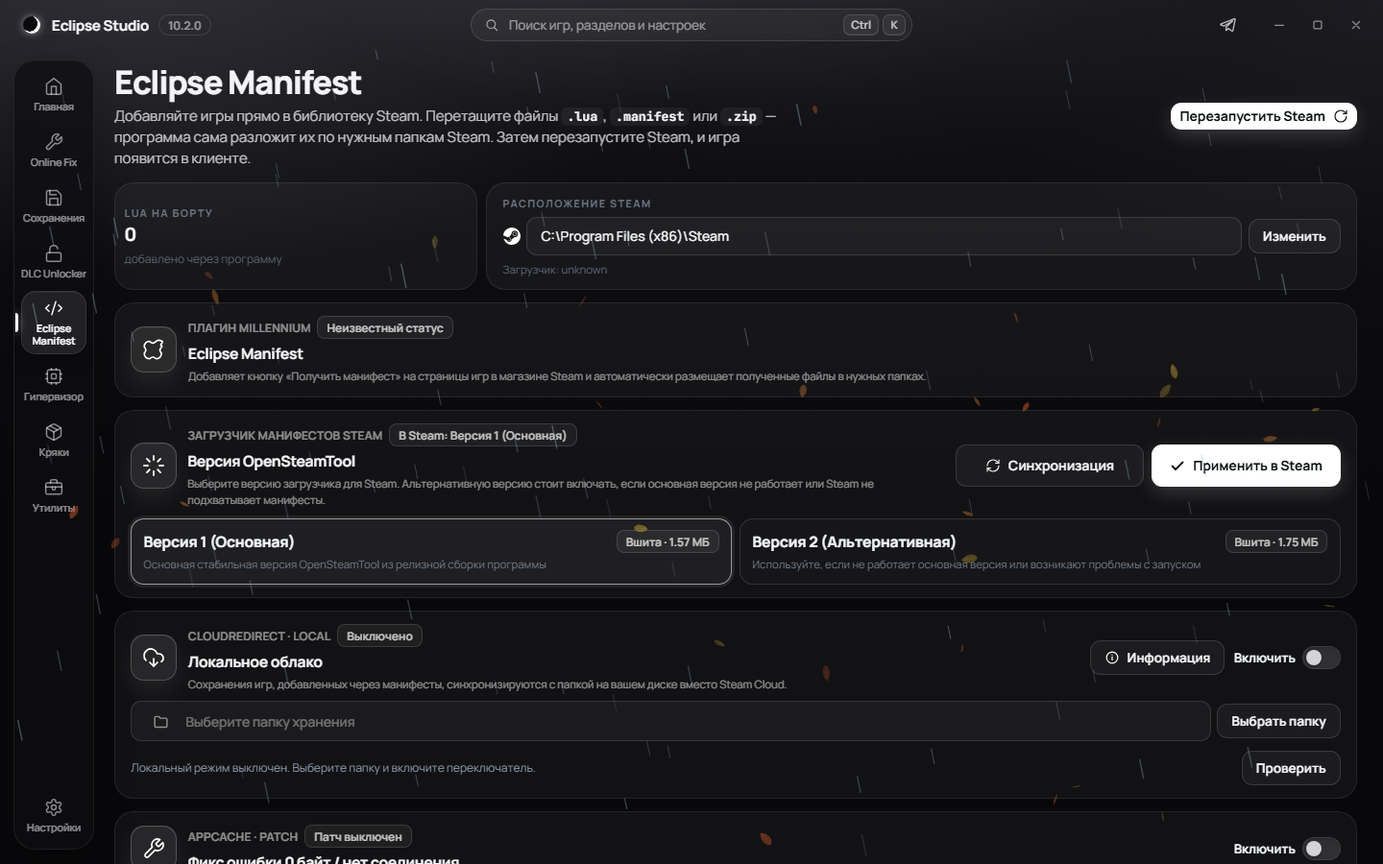
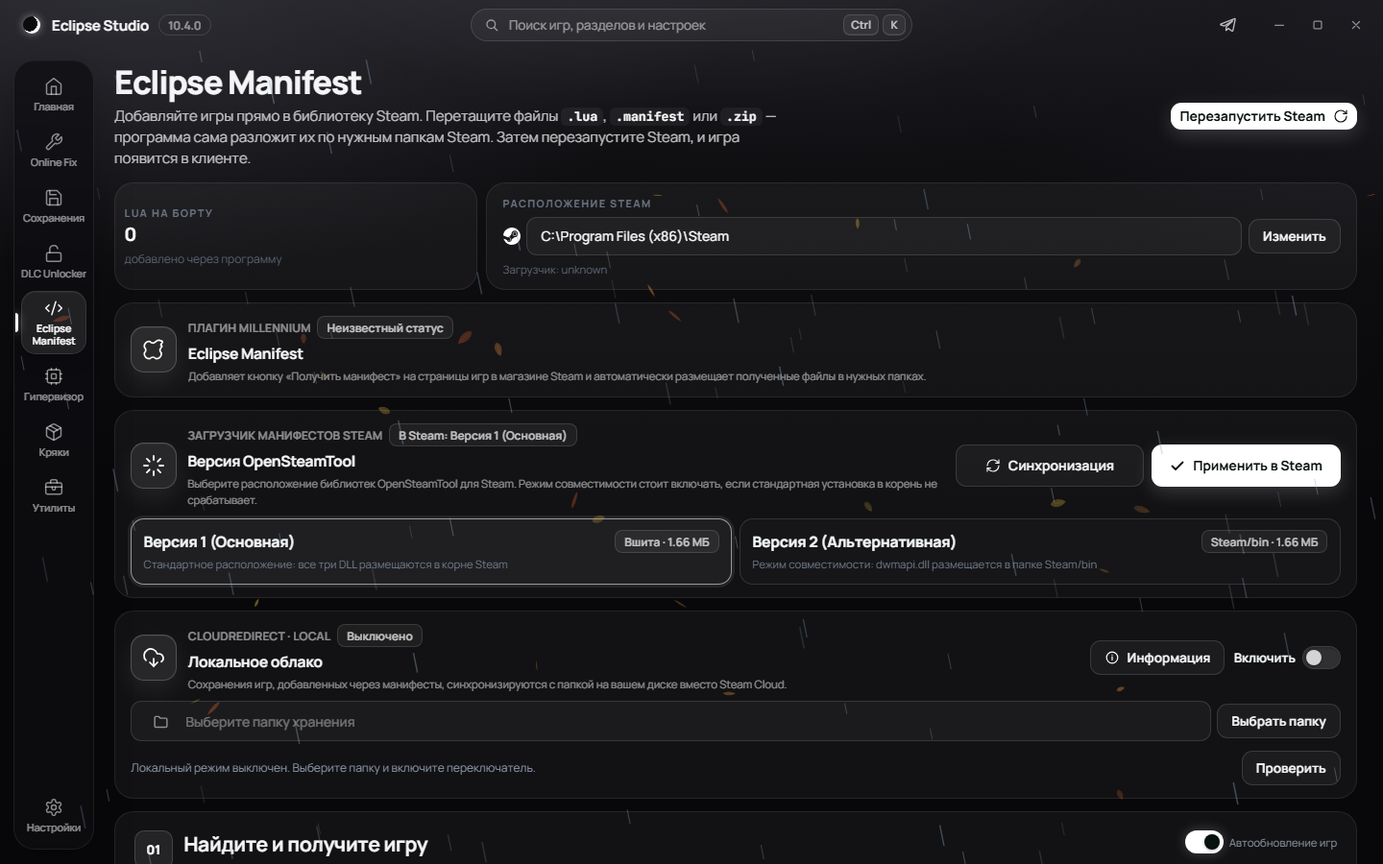
docs: update website, CGS v5.6.8 comparison and screenshots for v10.4.0

diff --git a/docs/app.js b/docs/app.js
@@ -898,12 +898,12 @@
       'hero.meta2': 'Процессор с AVX2',
       'hero.meta3': 'Portable — без установки',
       'facts.f1.k': '01 / Стек',
-      'facts.f1.p': 'Ядро на Rust: мгновенный запуск.',
+      'facts.f1.p': 'Ядро на Rust: многопоточная работа и мгновенный запуск.',
       'facts.f2.k': '02 / Приватность',
       'facts.f2.p': 'Телеметрии. Приложение работает офлайн и ничего не отправляет.',
       'facts.f3.k': '03 / Оформление',
       'facts.f3.unit': 'тем',
-      'facts.f3.p': 'Тёмные и светлые палитры, 12 акцентов и масштаб текста до 140%.',
+      'facts.f3.p': 'Тёмные и светлые палитры, 12 акцентов, градиент фона, сезоны и зум до 140%.',
       'facts.f4.k': '04 / Модули',
       'facts.f4.p': 'Разделов: от фиксов и сохранений до поиска античитов и настройки VBS.',
       'modules.kicker': 'Модули',
@@ -918,26 +918,26 @@
       'compare.aria': 'Сравнение: оригинал и Eclipse Studio',
       'compare.more': 'Показать все отличия (+{n})',
       'compare.less': 'Свернуть отличия',
-      'compare.diffOrig1': '<strong>Ручная установка:</strong> скачивание архива и распаковка ZIP/RAR с выбором нужной папки внутри и подтверждением шагов',
-      'compare.diffOrig2': '<strong>Внешний helper-апдейтер:</strong> бесшовный перезапуск через извлекаемый CgsUpdater.exe — без пробы здоровья новой версии и автоотката',
-      'compare.diffOrig3': '<strong>11 тем и 4 акцента:</strong> масштаб до 125%, фиксированная ширина сайдбара и статичное расположение панелей',
-      'compare.diffOrig4': '<strong>Смешанная графика:</strong> SVG в меню в сочетании с системными эмодзи и растровыми деталями интерфейса',
-      'compare.diffOrig5': '<strong>Классический запуск:</strong> окно появляется сразу, а инициализация компонентов идёт без визуального статуса',
-      'compare.diffOrig6': '<strong>Системные элементы:</strong> браузерные выпадающие списки select и фиксированная звуковая схема',
-      'compare.diffOrig7': '<strong>Открытое хранилище:</strong> настройки и секреты лежат в localStorage профиля WebView в незашифрованном виде',
-      'compare.diffOrig8': '<strong>Облако одним переключателем:</strong> перенаправление сохранений включается вручную, откат прежней конфигурации — тоже',
-      'compare.diffOrig9': '<strong>Раздельные твики VBS:</strong> команды Fix WMI, DISM и SFC по отдельности — без живого лога и автозащиты BitLocker',
-      'compare.diffOrig10': '<strong>Закрытый лаунчер:</strong> Crocodile-HV поставляется бинарником без исходного кода',
+      'compare.diffOrig1': '<strong>Пошаговая установка:</strong> скачивание архива с выбором папки внутри и подтверждением установки в диалоге',
+      'compare.diffOrig2': '<strong>Отдельный CgsUpdater.exe и GitHub API:</strong> обновление через извлекаемый бинарник и API-запросы с лимитом 60/час',
+      'compare.diffOrig3': '<strong>11 тем и 4 акцента:</strong> зум до 125%, фиксированный сайдбар, без конструктора градиента и только новогодний декор',
+      'compare.diffOrig4': '<strong>Смешанная графика:</strong> SVG в сочетании с системными эмодзи, единая лента настроек и без быстрого поиска',
+      'compare.diffOrig5': '<strong>Классический запуск:</strong> окно открывается без статуса инициализации компонентов; последовательные сетевые запросы',
+      'compare.diffOrig6': '<strong>Системные элементы:</strong> стандартные выпадающие списки select и без звукового движка интерфейса',
+      'compare.diffOrig7': '<strong>Открытое хранилище:</strong> настройки и API-ключи хранятся в localStorage профиля WebView без шифрования',
+      'compare.diffOrig8': '<strong>Фиксированный комплект CrocLua:</strong> один набор DLL, всплывающий баннер патча appcache без пометки о Мастерской',
+      'compare.diffOrig9': '<strong>VBS 2.0:</strong> раздельный ремонт WMI, DISM и SFC с итогом в конце и проверкой Secure Boot через PowerShell',
+      'compare.diffOrig10': '<strong>Закрытый лаунчер:</strong> Crocodile-HV v2.0.0 поставляется бинарником без открытого исходного кода',
       'compare.diffNew1': '<strong>Автоустановка в 1 клик:</strong> авторазбор структуры ZIP/RAR и вложенных корней, пароли, бэкап .backup_orig и автоудаление архива',
-      'compare.diffNew2': '<strong>Апдейтер без внешних файлов:</strong> проверка SHA-256 и PE, проба здоровья с автооткатом, отложка на 5 запусков и очистка старых версий',
-      'compare.diffNew3': '<strong>14 тем и 12 неоновых акцентов:</strong> компактный режим, зум 85–140%, перетаскиваемый сайдбар 180–380 px и док панелей в 4 стороны',
-      'compare.diffNew4': '<strong>Векторный SVG-сет Lucide:</strong> единый набор чётких иконок во всех разделах и микроанимации элементов 60 FPS',
-      'compare.diffNew5': '<strong>Аппаратная заставка:</strong> Canvas-анимация с логотипом, пошаговый статус загрузки и мгновенный пропуск по клику',
-      'compare.diffNew6': '<strong>Кастомные меню и звуки:</strong> темы-адаптивные выпадающие меню и конструктор собственных звуковых профилей',
-      'compare.diffNew7': '<strong>DPAPI-хранилище:</strong> состояние и секреты шифруются на уровне Windows, с миграцией из legacy-хранилища',
-      'compare.diffNew8': '<strong>Полный менеджер облака:</strong> выбор папки и режима, до 10 бэкапов конфигурации, миграция данных и обновление компонента в 1 клик',
-      'compare.diffNew9': '<strong>Живой ремонт с гарантиями:</strong> стриминг лога WMI, SFC и DISM, автоприостановка BitLocker и симметричный откат SecConfig.efi',
-      'compare.diffNew10': '<strong>Открытый Eclipse-HV v2.0.0:</strong> DSE-движок на подписанном RTCore64, верифицируемый UEFI-откат и нативный WMI-пробинг — исходники в репозитории',
+      'compare.diffNew2': '<strong>Апдейтер без лишних файлов:</strong> встроенный помощник с умным переименованием, чтение releases.atom без лимитов API, проверка SHA-256/PE и автооткат',
+      'compare.diffNew3': '<strong>До 14 тем и 12 акцентов:</strong> конструктор градиента, 4 сезона года, зум 85–140%, ресайз сайдбара и док панелей в 4 стороны',
+      'compare.diffNew4': '<strong>Векторный сет Lucide и Ctrl+K:</strong> единые SVG-иконки 60 FPS, 5 вкладок настроек и мгновенный поиск по модулям, играм и опциям',
+      'compare.diffNew5': '<strong>Canvas-заставка и многопоточность:</strong> анимированный прогресс запуска с пропуском по клику, пул потоков http_pool и кэш appinfo.vdf',
+      'compare.diffNew6': '<strong>Кастомные меню и звуковой движок:</strong> адаптивные списки, конструктор аудиопрофилей со своими MP3/WAV/OGG/FLAC и 8 шрифтов',
+      'compare.diffNew7': '<strong>DPAPI-шифрование:</strong> состояние, API-ключи и журналы отката шифруются на уровне Windows с проверкой при запуске',
+      'compare.diffNew8': '<strong>Единый OpenSteamTool (rev 3):</strong> корень Steam или bin/dwmapi.dll, безопасное закрытие Steam, сторонние Lua и тихий патч appcache с заметкой о Workshop',
+      'compare.diffNew9': '<strong>VBS 2.0.1 и «Управление защитами»:</strong> живой стриминг лога WMI/SFC/DISM, нативный WMI-пробинг без PowerShell, BitLocker Safe Guard и откат SecConfig.efi',
+      'compare.diffNew10': '<strong>Открытый Eclipse-HV v2.0.0:</strong> Rust-исходники в репозитории, DSE-движок на RTCore64, свой тест-сертификат, --status и ярлыки Shell COM (.lnk)',
       'dl.kicker': 'Загрузка',
       'dl.title1': 'Один файл.',
       'dl.title2': 'Portable.',
@@ -1073,12 +1073,12 @@
       'hero.meta2': 'AVX2-capable CPU',
       'hero.meta3': 'Portable — no install',
       'facts.f1.k': '01 / Stack',
-      'facts.f1.p': 'Rust core engine: lightning-fast launch.',
+      'facts.f1.p': 'Rust core: multithreaded engine and instant launch.',
       'facts.f2.k': '02 / Privacy',
       'facts.f2.p': 'Telemetry. Fully offline, no data sent anywhere.',
       'facts.f3.k': '03 / Appearance',
       'facts.f3.unit': 'themes',
-      'facts.f3.p': 'Dark & light palettes, 12 accents and text scaling up to 140%.',
+      'facts.f3.p': 'Dark & light palettes, 12 accents, background gradient, seasons and zoom up to 140%.',
       'facts.f4.k': '04 / Modules',
       'facts.f4.p': 'Sections: from online fixes & saves to anticheat audits & VBS.',
       'modules.kicker': 'Modules',
@@ -1093,26 +1093,26 @@
       'compare.aria': 'Comparison: original vs Eclipse Studio',
       'compare.more': 'Show all differences (+{n})',
       'compare.less': 'Collapse differences',
-      'compare.diffOrig1': '<strong>Manual installation:</strong> archive download and ZIP/RAR extraction with manual folder selection inside the archive and step confirmation',
-      'compare.diffOrig2': '<strong>External updater helper:</strong> seamless restart via an extracted CgsUpdater.exe — no health probe of the new build and no automatic rollback',
-      'compare.diffOrig3': '<strong>11 themes and 4 accents:</strong> scaling up to 125%, fixed sidebar width and static panel placement',
-      'compare.diffOrig4': '<strong>Mixed graphics:</strong> menu SVG combined with system emojis and raster interface details',
-      'compare.diffOrig5': '<strong>Classic startup:</strong> the window appears instantly while component initialization shows no visual status',
-      'compare.diffOrig6': '<strong>System elements:</strong> default browser select dropdowns and a fixed sound scheme',
-      'compare.diffOrig7': '<strong>Open storage:</strong> settings and secrets sit unencrypted in the WebView profile localStorage',
-      'compare.diffOrig8': '<strong>One-switch cloud:</strong> save redirection is enabled manually and the previous configuration is restored the same way',
-      'compare.diffOrig9': '<strong>Separate VBS tweaks:</strong> Fix WMI, DISM and SFC commands run individually — no live log and no BitLocker protection',
-      'compare.diffOrig10': '<strong>Closed launcher:</strong> Crocodile-HV ships as a binary without source code',
+      'compare.diffOrig1': '<strong>Staged installation:</strong> archive download with manual folder selection inside and dialog confirmation',
+      'compare.diffOrig2': '<strong>External CgsUpdater.exe & GitHub API:</strong> updates via an extracted helper binary and rate-limited API requests (60/hr)',
+      'compare.diffOrig3': '<strong>11 themes and 4 accents:</strong> scaling up to 125%, fixed sidebar width, no gradient editor and New Year decorations only',
+      'compare.diffOrig4': '<strong>Mixed graphics:</strong> SVG combined with system emojis, a single scrolling settings list and no quick search',
+      'compare.diffOrig5': '<strong>Classic startup:</strong> window opens without component-init status; sequential network requests',
+      'compare.diffOrig6': '<strong>System controls:</strong> default browser select dropdowns and no UI sound engine',
+      'compare.diffOrig7': '<strong>Open storage:</strong> settings and API keys sit unencrypted in WebView profile localStorage',
+      'compare.diffOrig8': '<strong>Fixed CrocLua bundle:</strong> single DLL layout and a popup appcache patch prompt without a Workshop note',
+      'compare.diffOrig9': '<strong>VBS 2.0:</strong> separate WMI, DISM and SFC fixes with output at completion and PowerShell Secure Boot checks',
+      'compare.diffOrig10': '<strong>Closed launcher:</strong> Crocodile-HV v2.0.0 ships as a binary without public source code',
       'compare.diffNew1': '<strong>1-Click auto-install:</strong> smart ZIP/RAR layout and nested-root detection, password support, .backup_orig backup and archive auto-cleanup',
-      'compare.diffNew2': '<strong>Updater without extra files:</strong> SHA-256 and PE verification, health probe with automatic rollback, 5-launch snooze and old-version cleanup',
-      'compare.diffNew3': '<strong>14 themes and 12 neon accents:</strong> compact mode, 85–140% zoom, draggable 180–380 px sidebar and 4-way panel docking',
-      'compare.diffNew4': '<strong>Vector Lucide SVG set:</strong> one sharp icon family across every view with 60 FPS micro-animations',
-      'compare.diffNew5': '<strong>Hardware Canvas splash:</strong> animated logo, step-by-step startup status and instant click-to-skip',
-      'compare.diffNew6': '<strong>Custom menus and audio:</strong> theme-adaptive dropdowns and a designer for your own sound profiles',
-      'compare.diffNew7': '<strong>DPAPI-protected storage:</strong> state and secrets are encrypted at the Windows level, with legacy migration',
-      'compare.diffNew8': '<strong>Full cloud manager:</strong> folder and mode selection, up to 10 configuration backups, data migration and 1-click component updates',
-      'compare.diffNew9': '<strong>Live repair with guarantees:</strong> real-time WMI, SFC and DISM log streaming, automatic BitLocker suspension and symmetric SecConfig.efi rollback',
-      'compare.diffNew10': '<strong>Open-source Eclipse-HV v2.0.0:</strong> DSE engine on the signed RTCore64 driver, verifiable UEFI rollback and native WMI probing — sources in the repository',
+      'compare.diffNew2': '<strong>Helper-free updater:</strong> built-in updater with smart rename, rate-limit-free releases.atom checks, SHA-256/PE checks and auto-rollback',
+      'compare.diffNew3': '<strong>Up to 14 themes & 12 accents:</strong> gradient designer, 4 seasonal effects, 85–140% zoom, resizable sidebar and 4-way panel docking',
+      'compare.diffNew4': '<strong>Lucide SVG set & Ctrl+K:</strong> unified 60 FPS vector icons, 5-tab Settings and instant search across modules, games and options',
+      'compare.diffNew5': '<strong>Canvas splash & multithreading:</strong> animated startup progress with click-to-skip, http_pool threading and cached appinfo.vdf',
+      'compare.diffNew6': '<strong>Custom menus & audio engine:</strong> theme-adaptive dropdowns, sound profile designer with custom MP3/WAV/OGG/FLAC and 8 UI fonts',
+      'compare.diffNew7': '<strong>DPAPI-protected storage:</strong> state, API keys and rollback logs are encrypted at the Windows level with startup integrity checks',
+      'compare.diffNew8': '<strong>Unified OpenSteamTool (rev 3):</strong> Steam root or bin/dwmapi.dll mode, safe Steam shutdown, 3rd-party Lua toggle and unobtrusive appcache fix with Workshop note',
+      'compare.diffNew9': '<strong>VBS 2.0.1 & Protection Controls:</strong> live WMI/SFC/DISM log streaming, native WMI probing without PowerShell, BitLocker Safe Guard and SecConfig.efi rollback',
+      'compare.diffNew10': '<strong>Open-source Eclipse-HV v2.0.0:</strong> full Rust source in repo, RTCore64 DSE engine, test code-signing cert, --status JSON report and Shell COM (.lnk) shortcuts',
       'dl.kicker': 'Download',
       'dl.title1': 'Single file.',
       'dl.title2': 'Portable.',
@@ -1174,13 +1174,13 @@
       { title: 'Online Fix', fullTitle: 'Universal Online Fix', p: 'Сетевой кооператив и лобби Spacewar.', desc: 'Анализ исполняемых файлов, эмуляторы Steam, лобби Spacewar и фиксы Epic Online Services.' },
       { title: 'Сохранения', fullTitle: 'Менеджер сохранений', p: 'Поиск, бэкап и восстановление прогресса.', desc: 'Поиск прогресса по 15+ путям Windows, архивация в ZIP/RAR и побайтовое восстановление.' },
       { title: 'DLC Unlocker', fullTitle: 'DLC Unlocker', p: 'Выборочно — через SmokeAPI и CreamAPI.', desc: 'Выборочная разблокировка дополнений Steam через SmokeAPI и CreamAPI.' },
-      { title: 'Eclipse Manifest', fullTitle: 'Eclipse Manifest и манифесты', p: 'Манифесты Steam, плагин Millennium и OpenSteamTool v1/v2.', desc: 'Добавление игр в библиотеку Steam через Ryuu и HubCap, плагин Millennium v0.5.2, две версии OpenSteamTool и синхронизация.' },
-      { title: 'Гипервизор', fullTitle: 'Гипервизор: Eclipse-HV', p: 'Автономный лаунчер Eclipse-HV v2.0.0 с автопоиском, журналом и обходом DSE.', desc: 'Запуск игр без BAT-скриптов с поддержкой AVX-512, Zen 4, Intel 12+ и Secure Boot.' },
-      { title: 'Античиты', fullTitle: 'Гипервизор: античиты', p: 'Поиск и удаление античитов.', desc: 'Аудит служб, драйверов и остаточных файлов 12 популярных античитов.' },
-      { title: 'VBS & HVCI', fullTitle: 'Гипервизор: VBS и HVCI', p: 'Настройка гипервизора.', desc: 'Управление Virtualization-based Security, изоляцией ядра, DSE и тестовым режимом.' },
-      { title: 'Crack Vault', fullTitle: 'Crack Vault', p: 'Каталог с кряками игр от DenuvOwO\\ARTIFACT.', desc: 'Каталог актуальных релизов с паролями и 6-поточным загрузчиком.' },
+      { title: 'Eclipse Manifest', fullTitle: 'Eclipse Manifest и манифесты', p: 'Манифесты Steam, плагин Millennium v5.5.0 и единый OpenSteamTool.', desc: 'Добавление игр через Ryuu и HubCap, плагин Millennium v5.5.0, единый загрузчик OpenSteamTool (rev 3) с режимом совместимости, локальное облако CloudRedirect и резервный фикс appcache.' },
+      { title: 'Гипервизор', fullTitle: 'Гипервизор: Eclipse-HV', p: 'Автономный лаунчер Eclipse-HV v2.0.0 с обходом DSE и ярлыками .lnk.', desc: 'Лаунчер Eclipse-HV v2.0.0: DSE-движок на подписанном RTCore64 в памяти, запуск без BAT-скриптов с Secure Boot, поддержка AVX-512 / Zen 4 и нативные ярлыки игр.' },
+      { title: 'Античиты', fullTitle: 'Гипервизор: античиты', p: 'Поиск и удаление античитов.', desc: 'Аудит служб, драйверов и остаточных файлов 12 популярных античитов с обязательным бэкапом.' },
+      { title: 'VBS 2.0.1', fullTitle: 'Гипервизор: VBS 2.0.1 и защиты', p: 'VBS 2.0.1, управление защитами и ремонт Windows.', desc: 'Управление VBS 2.0.1, HVCI, DSE и масками процессора, автозащита BitLocker, UEFI SecConfig.efi и живой ремонт WMI / SFC / DISM.' },
+      { title: 'Crack Vault', fullTitle: 'Crack Vault', p: 'Каталог с кряками игр от DenuvOwO\\ARTIFACT.', desc: 'Каталог актуальных релизов с паролями, 6-поточным загрузчиком и автоустановкой в 1 клик.' },
       { title: 'Утилиты', fullTitle: 'Утилиты', p: 'CirnoDownloader, Sigma, Zapret2.', desc: 'Хаб внешних инструментов: CirnoDownloader, Sigma, Zapret2 и инструкции по настройке.' },
-      { title: 'Настройки', fullTitle: 'Настройки', p: 'Темы, акценты, главная, масштаб и язык.', desc: '14 тем, 12 акцентов (в светлой теме — с читаемым контрастом), настройка главной и раздела при запуске, масштаб шрифта и мультиязычность.' },
+      { title: 'Настройки', fullTitle: 'Настройки', p: 'Темы, акценты, градиент, сезоны, звук и поиск Ctrl+K.', desc: 'Тёмные и светлые темы, 12 акцентов (с читаемым контрастом), 2-точечный градиент, 4 сезона года, звуковые профили, док панелей в 4 стороны и масштаб до 140%.' },
       { title: 'Telegram Hub', fullTitle: 'Telegram Hub', p: 'Каналы проекта и поддержка.', desc: 'Все официальные сообщества, канал обновлений и поддержка в одном окне.' },
     ],
     en: [
@@ -1188,13 +1188,13 @@
       { title: 'Online Fix', fullTitle: 'Universal Online Fix', p: 'Online co-op and Spacewar lobbies.', desc: 'Executable analysis, Steam emulators, Spacewar lobbies, and Epic Online Services fixes.' },
       { title: 'Save Manager', fullTitle: 'Save Game Manager', p: 'Discovery, backup, and restore of progress.', desc: 'Progress discovery across 15+ Windows paths, ZIP/RAR archiving, and byte-accurate recovery.' },
       { title: 'DLC Unlocker', fullTitle: 'DLC Unlocker', p: 'Selective unlock via SmokeAPI & CreamAPI.', desc: 'Selective Steam DLC unlocking powered by SmokeAPI and CreamAPI.' },
-      { title: 'Eclipse Manifest', fullTitle: 'Eclipse Manifest & Manifests', p: 'Steam manifests, Millennium plugin and OpenSteamTool v1/v2.', desc: 'Add games to Steam library via Ryuu and HubCap, Millennium v0.5.2 support, dual OpenSteamTool loaders, and cloud sync.' },
-      { title: 'Hypervisor', fullTitle: 'Hypervisor: Eclipse-HV', p: 'Standalone Eclipse-HV v2.0.0 launcher with auto-discovery, logging & DSE bypass.', desc: 'Zero-BAT isolated execution with AVX-512, Zen 4, Intel 12+ support & Secure Boot.' },
-      { title: 'Anticheats', fullTitle: 'Hypervisor: Anticheats', p: 'Scan and remove anticheat services.', desc: 'Audit services, drivers, and residual files from 12 popular anticheat systems.' },
-      { title: 'VBS & HVCI', fullTitle: 'Hypervisor: VBS & HVCI', p: 'Hypervisor & security configuration.', desc: 'Manage Virtualization-based Security, core isolation, DSE, and test mode.' },
-      { title: 'Crack Vault', fullTitle: 'Crack Vault', p: 'Game cracks by DenuvOwO\\ARTIFACT.', desc: 'Catalog of current releases with passwords and multi-threaded downloader.' },
+      { title: 'Eclipse Manifest', fullTitle: 'Eclipse Manifest & Manifests', p: 'Steam manifests, Millennium v5.5.0 plugin and unified OpenSteamTool.', desc: 'Add games via Ryuu and HubCap, Millennium v5.5.0 plugin, unified OpenSteamTool (rev 3) with compatibility mode, CloudRedirect local cloud and fallback appcache fix.' },
+      { title: 'Hypervisor', fullTitle: 'Hypervisor: Eclipse-HV', p: 'Standalone Eclipse-HV v2.0.0 launcher with DSE bypass & .lnk shortcuts.', desc: 'Eclipse-HV v2.0.0 launcher: in-memory DSE engine on signed RTCore64, zero-BAT launch with Secure Boot, AVX-512 / Zen 4 support and native desktop shortcuts.' },
+      { title: 'Anticheats', fullTitle: 'Hypervisor: Anticheats', p: 'Scan and remove anticheat services.', desc: 'Audit services, drivers, and residual files from 12 popular anticheat systems with backups.' },
+      { title: 'VBS 2.0.1', fullTitle: 'Hypervisor: VBS 2.0.1 & Protections', p: 'VBS 2.0.1, protection controls and Windows repair.', desc: 'Manage VBS 2.0.1, HVCI, DSE and CPU masks, BitLocker Safe Guard, UEFI SecConfig.efi and live WMI / SFC / DISM repair.' },
+      { title: 'Crack Vault', fullTitle: 'Crack Vault', p: 'Game cracks by DenuvOwO\\ARTIFACT.', desc: 'Catalog of current releases with passwords, 6-part downloader and 1-click auto-install.' },
       { title: 'Utilities', fullTitle: 'Utilities', p: 'CirnoDownloader, Sigma, Zapret2.', desc: 'External tool hub: CirnoDownloader, Sigma, Zapret2 and setup guides.' },
-      { title: 'Settings', fullTitle: 'Settings', p: 'Themes, accents, home, zoom, and language.', desc: '14 themes, 12 accents (readable in the light theme), home page and startup view settings, typography scaling, and multilingual support.' },
+      { title: 'Settings', fullTitle: 'Settings', p: 'Themes, accents, gradient, seasons, audio & Ctrl+K search.', desc: 'Dark & light themes, 12 accents (contrast-adapted), 2-point gradient designer, 4 seasonal effects, audio profiles, 4-way panel docking and scaling up to 140%.' },
       { title: 'Telegram Hub', fullTitle: 'Telegram Hub', p: 'Project channels and community support.', desc: 'All official communities, updates channel, and support in one window.' },
     ]
   };
@@ -1607,16 +1607,16 @@
       .catch(() => {
         syncState.fail++;
         const fallback = [
-          { tag: 'v8.0.0', rawDate: '2026-10-29T18:00:00Z', rawBytes: 48760320, url: 'https://github.com/Sparki1337/eclipse-studio/releases/download/8.0.0/Eclipse-Studio-v8.0.0.exe', fallbackSize: '46.5 МБ' },
+          { tag: 'v10.4.0', rawDate: '2026-11-27T13:14:43Z', rawBytes: 0, url: 'https://github.com/Sparki1337/eclipse-studio/releases/download/10.4.0/Eclipse-Studio-v10.4.0.exe' },
+          { tag: 'v10.3.0', rawDate: '2026-11-26T15:30:24Z', rawBytes: 0, url: 'https://github.com/Sparki1337/eclipse-studio/releases/download/10.3.0/Eclipse-Studio-v10.3.0.exe' },
+          { tag: 'v10.2.0', rawDate: '2026-11-17T19:12:57Z', rawBytes: 0, url: 'https://github.com/Sparki1337/eclipse-studio/releases/download/10.2.0/Eclipse-Studio-v10.2.0.exe' },
+          { tag: 'v10.1.0', rawDate: '2026-11-13T17:35:02Z', rawBytes: 0, url: 'https://github.com/Sparki1337/eclipse-studio/releases/download/10.1.0/Eclipse-Studio-v10.1.0.exe' },
+          { tag: 'v10.0.0', rawDate: '2026-11-09T10:57:54Z', rawBytes: 0, url: 'https://github.com/Sparki1337/eclipse-studio/releases/download/10.0.0/Eclipse-Studio-v10.0.0.exe' },
+          { tag: 'v9.0.0', rawDate: '2026-11-04T20:29:02Z', rawBytes: 0, url: 'https://github.com/Sparki1337/eclipse-studio/releases/download/9.0.0/Eclipse-Studio-v9.0.0.exe' },
+          { tag: 'v8.4.0', rawDate: '2026-11-02T08:02:18Z', rawBytes: 0, url: 'https://github.com/Sparki1337/eclipse-studio/releases/download/8.4.0/Eclipse-Studio-v8.4.0.exe' },
+          { tag: 'v8.3.0', rawDate: '2026-11-02T06:48:22Z', rawBytes: 0, url: 'https://github.com/Sparki1337/eclipse-studio/releases/download/8.3.0/Eclipse-Studio-v8.3.0.exe' },
+          { tag: 'v8.0.0', rawDate: '2026-10-29T18:26:39Z', rawBytes: 48760320, url: 'https://github.com/Sparki1337/eclipse-studio/releases/download/8.0.0/Eclipse-Studio-v8.0.0.exe', fallbackSize: '46.5 МБ' },
           { tag: 'v7.0.3', rawDate: '2026-10-16T11:37:46Z', rawBytes: 47100000, url: 'https://github.com/Sparki1337/eclipse-studio/releases/tag/v7.0.3', fallbackSize: '44.9 МБ' },
-          { tag: 'v7.0.2', rawDate: '2026-10-15T20:29:00Z', rawBytes: 46900000, url: 'https://github.com/Sparki1337/eclipse-studio/releases/tag/v7.0.2', fallbackSize: '44.7 МБ' },
-          { tag: 'v7.0.1', rawDate: '2026-10-15T15:35:00Z', rawBytes: 46850000, url: 'https://github.com/Sparki1337/eclipse-studio/releases/tag/v7.0.1', fallbackSize: '44.7 МБ' },
-          { tag: 'v7.0.0', rawDate: '2026-10-15T12:00:00Z', rawBytes: 46800000, url: 'https://github.com/Sparki1337/eclipse-studio/releases/tag/v7.0.0', fallbackSize: '44.6 МБ' },
-          { tag: 'v6.6.7', rawDate: '2026-10-14T18:00:00Z', rawBytes: 46500000, url: 'https://github.com/Sparki1337/eclipse-studio/releases/tag/v6.6.7', fallbackSize: '44.3 МБ' },
-          { tag: 'v6.3.0', rawDate: '2026-10-13T18:00:00Z', rawBytes: 44983910, url: 'https://github.com/Sparki1337/eclipse-studio/releases/tag/v6.3.0', fallbackSize: '42.9 МБ' },
-          { tag: 'v6.2.0', rawDate: '2026-10-12T12:00:00Z', rawBytes: 44774195, url: 'https://github.com/Sparki1337/eclipse-studio/releases/tag/v6.2.0', fallbackSize: '42.7 МБ' },
-          { tag: 'v6.1.0', rawDate: '2026-10-12T10:00:00Z', rawBytes: 44774195, url: 'https://github.com/Sparki1337/eclipse-studio/releases/tag/v6.1.0', fallbackSize: '42.7 МБ' },
-          { tag: 'v6.0.0', rawDate: '2026-10-12T08:00:00Z', rawBytes: 44564480, url: 'https://github.com/Sparki1337/eclipse-studio/releases/tag/v6.0.0', fallbackSize: '42.5 МБ' },
         ];
         // Офлайн-список может отставать: не подменяем текущую версию старой и ведём на releases/latest
         if (/^v\d/.test(htmlVersion) && !fallback.some((r) => r.tag === htmlVersion)) {
@@ -1637,9 +1637,12 @@
       .catch(() => {
         syncState.fail++;
         const fallback = [
-          { tag: 'v5.1.0', rawDate: '2026-10-07T12:00:00Z', rawBytes: 45193625, url: 'https://github.com/LeoBanned/crocodile-gena-studio-releases/releases/tag/v5.1.0', fallbackSize: '43.1 МБ' },
-          { tag: 'v5.0.0', rawDate: '2026-08-09T12:00:00Z', rawBytes: 44983910, url: 'https://github.com/LeoBanned/crocodile-gena-studio-releases/releases/tag/v5.0.0', fallbackSize: '42.9 МБ' },
-          { tag: 'v4.0.4', rawDate: '2026-08-02T12:00:00Z', rawBytes: 44040192, url: 'https://github.com/LeoBanned/crocodile-gena-studio-releases/releases/tag/v4.0.4', fallbackSize: '42.0 МБ' },
+          { tag: 'v5.6.8', rawDate: '2026-11-13T18:29:18Z', rawBytes: 0, url: 'https://github.com/LeoBanned/crocodile-gena-studio-releases/releases/tag/v5.6.8' },
+          { tag: 'v5.6.7', rawDate: '2026-11-12T14:02:31Z', rawBytes: 0, url: 'https://github.com/LeoBanned/crocodile-gena-studio-releases/releases/tag/v5.6.7' },
+          { tag: 'v5.6.6', rawDate: '2026-11-09T10:56:07Z', rawBytes: 0, url: 'https://github.com/LeoBanned/crocodile-gena-studio-releases/releases/tag/v5.6.6' },
+          { tag: 'v5.6.5', rawDate: '2026-11-08T17:54:59Z', rawBytes: 0, url: 'https://github.com/LeoBanned/crocodile-gena-studio-releases/releases/tag/v5.6.5' },
+          { tag: 'v5.6.4', rawDate: '2026-11-04T07:08:10Z', rawBytes: 0, url: 'https://github.com/LeoBanned/crocodile-gena-studio-releases/releases/tag/v5.6.4' },
+          { tag: 'v5.6.3', rawDate: '2026-11-04T16:26:12Z', rawBytes: 0, url: 'https://github.com/LeoBanned/crocodile-gena-studio-releases/releases/tag/v5.6.3' },
         ];
         cachedGenaReleases = fallback;
         renderReleasesUI('gena', fallback);

diff --git a/docs/index.html b/docs/index.html
@@ -72,7 +72,7 @@
         <div class="nav-mobile">
           <a href="#download" class="btn btn-light btn-block nav-dl">
             <span data-i18n="header.download">Скачать</span>
-            <span class="nav-dl-ver mono" data-version>v10.1.0</span>
+            <span class="nav-dl-ver mono" data-version>v10.4.0</span>
           </a>
           <a href="https://github.com/Sparki1337/eclipse-studio" target="_blank" rel="noopener noreferrer" class="nav-gh">
             <svg class="gh-mark" viewBox="0 0 24 24" width="22" height="22" fill="currentColor" aria-hidden="true"><path d="M12 0C5.37 0 0 5.37 0 12c0 5.31 3.435 9.795 8.205 11.385.6.105.825-.255.825-.57 0-.285-.015-1.23-.015-2.235-3.015.555-3.795-.735-4.035-1.41-.135-.345-.72-1.41-1.23-1.695-.42-.225-1.02-.78-.015-.795.945-.015 1.62.87 1.845 1.23 1.08 1.815 2.805 1.305 3.495.99.105-.78.42-1.305.765-1.605-2.67-.3-5.46-1.335-5.46-5.925 0-1.305.465-2.385 1.23-3.225-.12-.3-.54-1.53.12-3.18 0 0 1.005-.315 3.3 1.23.96-.27 1.98-.405 3-.405s2.04.135 3 .405c2.295-1.56 3.3-1.23 3.3-1.23.66 1.65.24 2.88.12 3.18.765.84 1.23 1.905 1.23 3.225 0 4.605-2.805 5.625-5.475 5.925.435.375.81 1.095.81 2.22 0 1.605-.015 2.895-.015 3.3 0 .315.225.69.825.57A12.02 12.02 0 0024 12c0-6.63-5.37-12-12-12z"/></svg>
@@ -183,7 +183,7 @@
           <div class="fact reveal">
             <span class="fact-k mono" data-i18n="facts.f1.k">01 / Стек</span>
             <strong class="fact-v">Tauri v2</strong>
-            <p data-i18n="facts.f1.p">Ядро на Rust: мгновенный запуск.</p>
+            <p data-i18n="facts.f1.p">Ядро на Rust: многопоточная работа и мгновенный запуск.</p>
           </div>
           <div class="fact reveal" style="--d:1">
             <span class="fact-k mono" data-i18n="facts.f2.k">02 / Приватность</span>
@@ -193,7 +193,7 @@
           <div class="fact reveal" style="--d:2">
             <span class="fact-k mono" data-i18n="facts.f3.k">03 / Оформление</span>
             <strong class="fact-v"><span data-count="14">14</span> <span data-i18n="facts.f3.unit">тем</span></strong>
-            <p data-i18n="facts.f3.p">Тёмные и светлые палитры, 12 акцентов и масштаб текста до 140%.</p>
+            <p data-i18n="facts.f3.p">Тёмные и светлые палитры, 12 акцентов, градиент фона, сезоны и зум до 140%.</p>
           </div>
           <div class="fact reveal" style="--d:3">
             <span class="fact-k mono" data-i18n="facts.f4.k">04 / Модули</span>
@@ -226,26 +226,26 @@
             <li class="sc-item" data-img="./screenshots/DLC_Unlocker.png" data-title="DLC Unlocker" data-desc="Выборочная разблокировка дополнений Steam через SmokeAPI и CreamAPI.">
               <span class="sc-num mono">04</span><div><h3>DLC Unlocker</h3><p>Выборочно — через SmokeAPI и CreamAPI.</p></div>
             </li>
-            <li class="sc-item" data-img="./screenshots/Eclipse_Manifest.png" data-title="Eclipse Manifest и манифесты" data-desc="Добавление игр в библиотеку Steam через Ryuu и HubCap, плагин Millennium v5.5.0, две версии OpenSteamTool и синхронизация.">
-              <span class="sc-num mono">05</span><div><h3>Eclipse Manifest</h3><p>Манифесты Steam, плагин Millennium и OpenSteamTool v1/v2.</p></div>
+            <li class="sc-item" data-img="./screenshots/Eclipse_Manifest.png" data-title="Eclipse Manifest и манифесты" data-desc="Добавление игр через Ryuu и HubCap, плагин Millennium v5.5.0, единый загрузчик OpenSteamTool (rev 3) с режимом совместимости, локальное облако CloudRedirect и резервный фикс appcache.">
+              <span class="sc-num mono">05</span><div><h3>Eclipse Manifest</h3><p>Манифесты Steam, плагин Millennium v5.5.0 и единый OpenSteamTool.</p></div>
             </li>
-            <li class="sc-item" data-img="./screenshots/Гипервизор.png" data-title="Гипервизор: Eclipse-HV" data-desc="Автономный лаунчер Eclipse-HV v2.0.0: DSE-движок на подписанном RTCore64, запуск игр без BAT-скриптов и поддержка AVX-512/Zen 4.">
-              <span class="sc-num mono">06</span><div><h3>Гипервизор</h3><p>Автономный лаунчер Eclipse-HV v2.0.0 с DSE-движком RTCore64 и поддержкой AVX-512 / Zen 4 / Intel 12+.</p></div>
+            <li class="sc-item" data-img="./screenshots/Гипервизор.png" data-title="Гипервизор: Eclipse-HV" data-desc="Лаунчер Eclipse-HV v2.0.0: DSE-движок на подписанном RTCore64 в памяти, запуск без BAT-скриптов с Secure Boot, поддержка AVX-512 / Zen 4 и нативные ярлыки игр.">
+              <span class="sc-num mono">06</span><div><h3>Гипервизор</h3><p>Автономный лаунчер Eclipse-HV v2.0.0 с обходом DSE и ярлыками .lnk.</p></div>
             </li>
-            <li class="sc-item" data-img="./screenshots/Античиты.png" data-title="Гипервизор: античиты" data-desc="Аудит служб, драйверов и остаточных файлов 12 популярных античитов.">
+            <li class="sc-item" data-img="./screenshots/Античиты.png" data-title="Гипервизор: античиты" data-desc="Аудит служб, драйверов и остаточных файлов 12 популярных античитов с обязательным бэкапом.">
               <span class="sc-num mono">07</span><div><h3>Античиты</h3><p>Поиск и удаление античитов.</p></div>
             </li>
-            <li class="sc-item" data-img="./screenshots/VBS.png" data-title="Гипервизор: VBS и HVCI" data-desc="Управление Virtualization-based Security, изоляцией ядра, DSE и тестовым режимом.">
-              <span class="sc-num mono">08</span><div><h3>VBS &amp; HVCI</h3><p>Настройка гипервизора.</p></div>
+            <li class="sc-item" data-img="./screenshots/VBS.png" data-title="Гипервизор: VBS 2.0.1 и защиты" data-desc="Управление VBS 2.0.1, HVCI, DSE и масками процессора, автозащита BitLocker, UEFI SecConfig.efi и живой ремонт WMI / SFC / DISM.">
+              <span class="sc-num mono">08</span><div><h3>VBS 2.0.1</h3><p>VBS 2.0.1, управление защитами и ремонт Windows.</p></div>
             </li>
-            <li class="sc-item" data-img="./screenshots/Кряки.png" data-title="Crack" data-desc="Каталог актуальных релизов с паролями и 6-поточным загрузчиком.">
+            <li class="sc-item" data-img="./screenshots/Кряки.png" data-title="Crack Vault" data-desc="Каталог актуальных релизов с паролями, 6-поточным загрузчиком и автоустановкой в 1 клик.">
               <span class="sc-num mono">09</span><div><h3>Crack Vault</h3><p>Каталог с кряками игр от DenuvOwO\ARTIFACT.</p></div>
             </li>
             <li class="sc-item" data-img="./screenshots/Утилиты.png" data-title="Утилиты" data-desc="Хаб внешних инструментов: CirnoDownloader, Sigma, Zapret2 и инструкции по настройке.">
               <span class="sc-num mono">10</span><div><h3>Утилиты</h3><p>CirnoDownloader, Sigma, Zapret2.</p></div>
             </li>
-            <li class="sc-item" data-img="./screenshots/Настройки.png" data-title="Настройки" data-desc="14 тем, 12 акцентов (в светлой теме — с читаемым контрастом), настройка главной и раздела при запуске, масштаб шрифта и мультиязычность.">
-              <span class="sc-num mono">11</span><div><h3>Настройки</h3><p>Темы, акценты, главная, масштаб и язык.</p></div>
+            <li class="sc-item" data-img="./screenshots/Настройки.png" data-title="Настройки" data-desc="Тёмные и светлые темы, 12 акцентов (с читаемым контрастом), 2-точечный градиент, 4 сезона года, звуковые профили, док панелей в 4 стороны и масштаб до 140%.">
+              <span class="sc-num mono">11</span><div><h3>Настройки</h3><p>Темы, акценты, градиент, сезоны, звук и поиск Ctrl+K.</p></div>
             </li>
             <li class="sc-item" data-img="./screenshots/Telegram_Каналы.png" data-title="Telegram Hub" data-desc="Все официальные сообщества, канал обновлений и поддержка в одном окне.">
               <span class="sc-num mono">12</span><div><h3>Telegram Hub</h3><p>Каналы проекта и поддержка.</p></div>
@@ -296,31 +296,31 @@
           <div class="diff-col reveal">
             <span class="mono diff-k" data-i18n="compare.orig">Оригинал</span>
             <ul>
-              <li data-i18n="compare.diffOrig1"><strong>Ручная установка:</strong> скачивание архива и распаковка ZIP/RAR с выбором нужной папки внутри и подтверждением шагов</li>
-              <li data-i18n="compare.diffOrig2"><strong>Внешний helper-апдейтер:</strong> бесшовный перезапуск через извлекаемый CgsUpdater.exe — без пробы здоровья новой версии и автоотката</li>
-              <li data-i18n="compare.diffOrig3"><strong>11 тем и 4 акцента:</strong> масштаб до 125%, фиксированная ширина сайдбара и статичное расположение панелей</li>
-              <li data-i18n="compare.diffOrig4"><strong>Смешанная графика:</strong> SVG в меню в сочетании с системными эмодзи и растровыми деталями интерфейса</li>
-              <li data-i18n="compare.diffOrig5"><strong>Классический запуск:</strong> окно появляется сразу, а инициализация компонентов идёт без визуального статуса</li>
-              <li data-i18n="compare.diffOrig6"><strong>Системные элементы:</strong> браузерные выпадающие списки select и фиксированная звуковая схема</li>
-              <li data-i18n="compare.diffOrig7"><strong>Открытое хранилище:</strong> настройки и секреты лежат в localStorage профиля WebView в незашифрованном виде</li>
-              <li data-i18n="compare.diffOrig8"><strong>Облако одним переключателем:</strong> перенаправление сохранений включается вручную, откат прежней конфигурации — тоже</li>
-              <li data-i18n="compare.diffOrig9"><strong>Раздельные твики VBS:</strong> команды Fix WMI, DISM и SFC по отдельности — без живого лога и автозащиты BitLocker</li>
-              <li data-i18n="compare.diffOrig10"><strong>Закрытый лаунчер:</strong> Crocodile-HV поставляется бинарником без исходного кода</li>
+              <li data-i18n="compare.diffOrig1"><strong>Пошаговая установка:</strong> скачивание архива с выбором папки внутри и подтверждением установки в диалоге</li>
+              <li data-i18n="compare.diffOrig2"><strong>Отдельный CgsUpdater.exe и GitHub API:</strong> обновление через извлекаемый бинарник и API-запросы с лимитом 60/час</li>
+              <li data-i18n="compare.diffOrig3"><strong>11 тем и 4 акцента:</strong> зум до 125%, фиксированный сайдбар, без конструктора градиента и только новогодний декор</li>
+              <li data-i18n="compare.diffOrig4"><strong>Смешанная графика:</strong> SVG в сочетании с системными эмодзи, единая лента настроек и без быстрого поиска</li>
+              <li data-i18n="compare.diffOrig5"><strong>Классический запуск:</strong> окно открывается без статуса инициализации компонентов; последовательные сетевые запросы</li>
+              <li data-i18n="compare.diffOrig6"><strong>Системные элементы:</strong> стандартные выпадающие списки select и без звукового движка интерфейса</li>
+              <li data-i18n="compare.diffOrig7"><strong>Открытое хранилище:</strong> настройки и API-ключи хранятся в localStorage профиля WebView без шифрования</li>
+              <li data-i18n="compare.diffOrig8"><strong>Фиксированный комплект CrocLua:</strong> один набор DLL, всплывающий баннер патча appcache без пометки о Мастерской</li>
+              <li data-i18n="compare.diffOrig9"><strong>VBS 2.0:</strong> раздельный ремонт WMI, DISM и SFC с итогом в конце и проверкой Secure Boot через PowerShell</li>
+              <li data-i18n="compare.diffOrig10"><strong>Закрытый лаунчер:</strong> Crocodile-HV v2.0.0 поставляется бинарником без открытого исходного кода</li>
             </ul>
           </div>
           <div class="diff-col is-new reveal" style="--d:1">
             <span class="mono diff-k" data-i18n="compare.new">Eclipse Studio</span>
             <ul>
               <li data-i18n="compare.diffNew1"><strong>Автоустановка в 1 клик:</strong> авторазбор структуры ZIP/RAR и вложенных корней, пароли, бэкап .backup_orig и автоудаление архива</li>
-              <li data-i18n="compare.diffNew2"><strong>Апдейтер без внешних файлов:</strong> проверка SHA-256 и PE, проба здоровья с автооткатом, отложка на 5 запусков и очистка старых версий</li>
-              <li data-i18n="compare.diffNew3"><strong>14 тем и 12 неоновых акцентов:</strong> компактный режим, зум 85–140%, перетаскиваемый сайдбар 180–380 px и док панелей в 4 стороны</li>
-              <li data-i18n="compare.diffNew4"><strong>Векторный SVG-сет Lucide:</strong> единый набор чётких иконок во всех разделах и микроанимации элементов 60 FPS</li>
-              <li data-i18n="compare.diffNew5"><strong>Аппаратная заставка:</strong> Canvas-анимация с логотипом, пошаговый статус загрузки и мгновенный пропуск по клику</li>
-              <li data-i18n="compare.diffNew6"><strong>Кастомные меню и звуки:</strong> темы-адаптивные выпадающие меню и конструктор собственных звуковых профилей</li>
-              <li data-i18n="compare.diffNew7"><strong>DPAPI-хранилище:</strong> состояние и секреты шифруются на уровне Windows, с миграцией из legacy-хранилища</li>
-              <li data-i18n="compare.diffNew8"><strong>Полный менеджер облака:</strong> выбор папки и режима, до 10 бэкапов конфигурации, миграция данных и обновление компонента в 1 клик</li>
-              <li data-i18n="compare.diffNew9"><strong>Живой ремонт с гарантиями:</strong> стриминг лога WMI, SFC и DISM, автоприостановка BitLocker и симметричный откат SecConfig.efi</li>
-              <li data-i18n="compare.diffNew10"><strong>Открытый Eclipse-HV v2.0.0:</strong> DSE-движок на подписанном RTCore64, верифицируемый UEFI-откат и нативный WMI-пробинг — исходники в репозитории</li>
+              <li data-i18n="compare.diffNew2"><strong>Апдейтер без лишних файлов:</strong> встроенный помощник с умным переименованием, чтение releases.atom без лимитов API, проверка SHA-256/PE и автооткат</li>
+              <li data-i18n="compare.diffNew3"><strong>До 14 тем и 12 акцентов:</strong> конструктор градиента, 4 сезона года, зум 85–140%, ресайз сайдбара и док панелей в 4 стороны</li>
+              <li data-i18n="compare.diffNew4"><strong>Векторный сет Lucide и Ctrl+K:</strong> единые SVG-иконки 60 FPS, 5 вкладок настроек и мгновенный поиск по модулям, играм и опциям</li>
+              <li data-i18n="compare.diffNew5"><strong>Canvas-заставка и многопоточность:</strong> анимированный прогресс запуска с пропуском по клику, пул потоков http_pool и кэш appinfo.vdf</li>
+              <li data-i18n="compare.diffNew6"><strong>Кастомные меню и звуковой движок:</strong> адаптивные списки, конструктор аудиопрофилей со своими MP3/WAV/OGG/FLAC и 8 шрифтов</li>
+              <li data-i18n="compare.diffNew7"><strong>DPAPI-шифрование:</strong> состояние, API-ключи и журналы отката шифруются на уровне Windows с проверкой при запуске</li>
+              <li data-i18n="compare.diffNew8"><strong>Единый OpenSteamTool (rev 3):</strong> корень Steam или bin/dwmapi.dll, безопасное закрытие Steam, сторонние Lua и тихий патч appcache с заметкой о Workshop</li>
+              <li data-i18n="compare.diffNew9"><strong>VBS 2.0.1 и «Управление защитами»:</strong> живой стриминг лога WMI/SFC/DISM, нативный WMI-пробинг без PowerShell, BitLocker Safe Guard и откат SecConfig.efi</li>
+              <li data-i18n="compare.diffNew10"><strong>Открытый Eclipse-HV v2.0.0:</strong> Rust-исходники в репозитории, DSE-движок на RTCore64, свой тест-сертификат, --status и ярлыки Shell COM (.lnk)</li>
             </ul>
           </div>
         </div>
